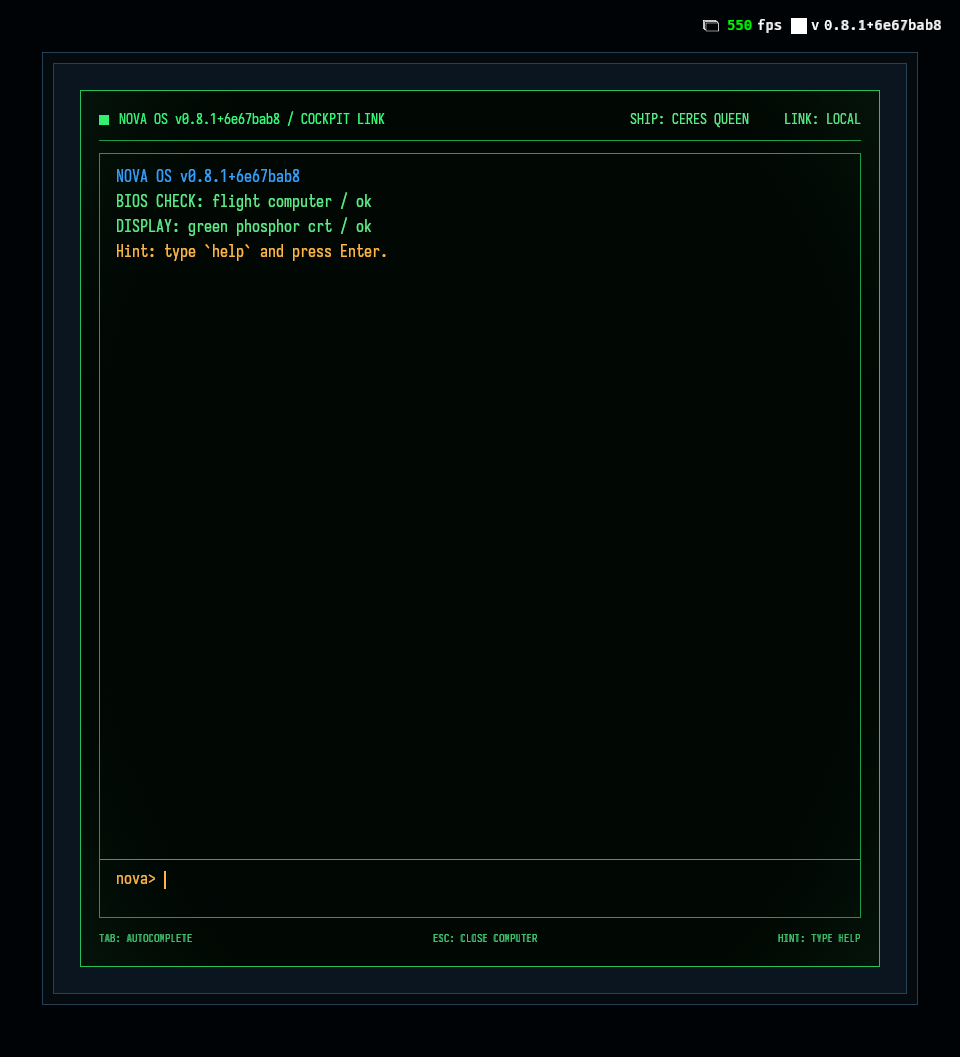
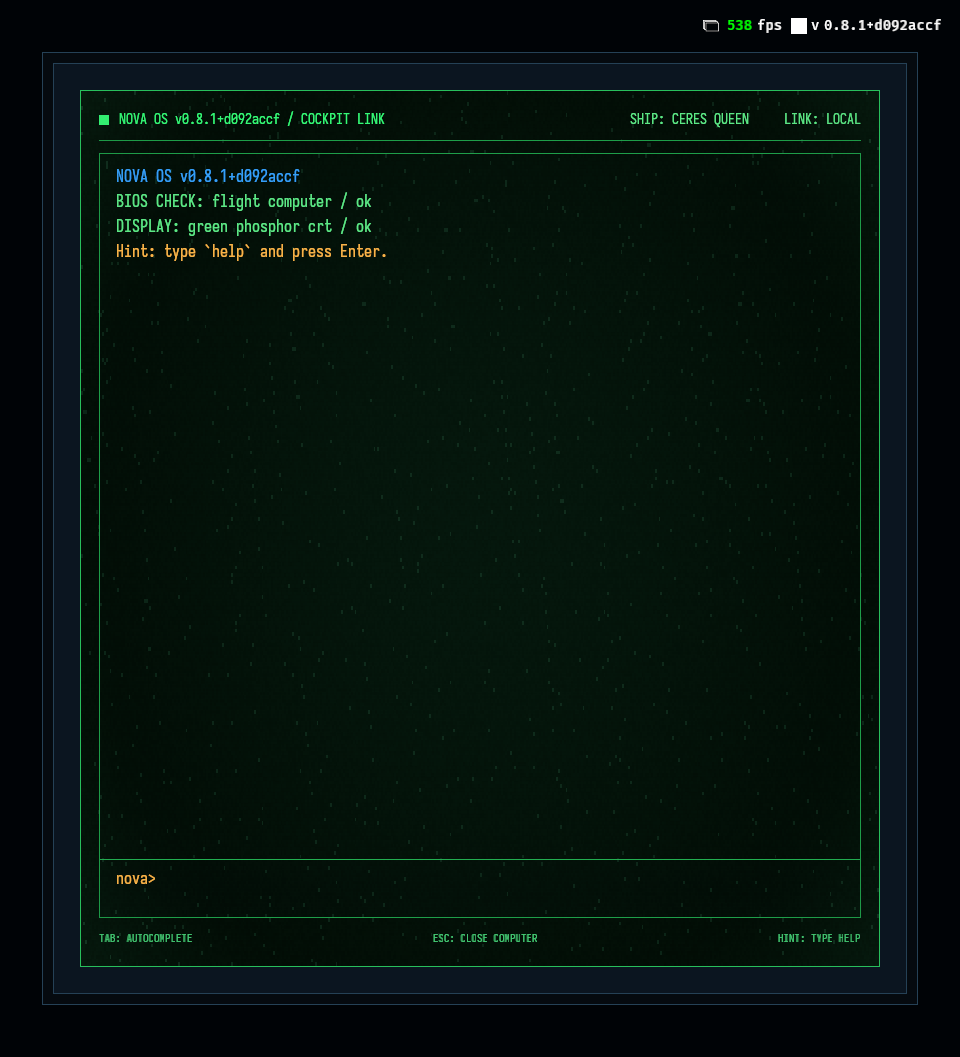
feat(hud): NOVA OS CRT volume gradient, caret blink, HTML log/objectives
Follow-up feedback on the NOVA OS computer (task 20260726-180807):

- CRT shader gets a low centre-peaked glow (0.05) for a curved-glass volume
  gradient and stronger grain (0.03) with a brighter spark cell, so the screen
  reads as a lively bulged CRT instead of a flat panel.
- Stronger zero-offset text bloom (0.6) so letters read as neon phosphor.
- Blinking caret: blink_nova_os_caret toggles the amber caret on real time
  while the computer is open.
- log/objectives output match the HTML: numbered '0001 ...' log rows and
  'OBJ + <message>' objective rows, both header-less, keeping real data.

Changed region(s): [[0.9062, 0.0, 0.9688, 0.0312], [0.25, 0.1561, 0.3125, 0.1873], [0.2188, 0.0937, 0.2812, 0.1249]]

diff --git a/crates/nova_gameplay/src/hud/drawer.rs b/crates/nova_gameplay/src/hud/drawer.rs
@@ -95,15 +95,20 @@ const NOVA_OS_ORANGE: Color = Color::srgb_u8(255, 123, 45);
 const NOVA_OS_CONTENT_Z: i32 = 0;
 const NOVA_OS_OVERLAY_Z: i32 = 1;
 const NOVA_OS_PROMPT_PREFIX: &str = "nova> ";
+/// Blink rate of the terminal caret, in full on/off cycles per second.
+const NOVA_OS_CARET_BLINK_HZ: f32 = 1.25;
 
 /// Straight-alpha CRT overlay tint + scanline controls, passed to WGSL. Kept
 /// deliberately faint so the overlay never films the text underneath: the tint
-/// is a whisper of green, the vignette darkens only the outer edges, and there
-/// is no centre glow (see `assets/shaders/nova_os_crt.wgsl`).
+/// is a whisper of green, the vignette darkens only the outer edges, and the
+/// centre glow is a low bulge that reads as volume rather than a wash (see
+/// `assets/shaders/nova_os_crt.wgsl`).
 const NOVA_OS_CRT_TINT: LinearRgba = LinearRgba::new(0.212, 1.0, 0.475, 0.03);
 const NOVA_OS_CRT_SCANLINE_STRENGTH: f32 = 0.06;
 const NOVA_OS_CRT_VIGNETTE_STRENGTH: f32 = 0.55;
-const NOVA_OS_CRT_GRAIN_STRENGTH: f32 = 0.01;
+/// Soft centre-peaked phosphor bulge that gives the flat panel its CRT volume.
+const NOVA_OS_CRT_GLOW_STRENGTH: f32 = 0.05;
+const NOVA_OS_CRT_GRAIN_STRENGTH: f32 = 0.03;
 
 /// Global stacking-context z for the OPEN drawer: it is a modal, so backdrop and
 /// panel rise above the flight HUD chrome (which carries no `GlobalZIndex` = 0).
@@ -404,6 +409,7 @@ struct NovaOsCrtUniform {
     tint: LinearRgba,
     scanline_strength: f32,
     vignette_strength: f32,
+    glow_strength: f32,
     grain_strength: f32,
 }
 
@@ -438,6 +444,7 @@ impl Default for NovaOsCrtMaterial {
                 tint: NOVA_OS_CRT_TINT,
                 scanline_strength: NOVA_OS_CRT_SCANLINE_STRENGTH,
                 vignette_strength: NOVA_OS_CRT_VIGNETTE_STRENGTH,
+                glow_strength: NOVA_OS_CRT_GLOW_STRENGTH,
                 grain_strength: NOVA_OS_CRT_GRAIN_STRENGTH,
             },
         }
@@ -868,19 +875,20 @@ fn terminal_log_rows(log: &DrawerFlightLog) -> Vec<TerminalRow> {
             text: "Flight log is empty.".to_string(),
         }];
     }
-    std::iter::once(TerminalRow {
-        kind: TerminalRowKind::Info,
-        text: "Flight log:".to_string(),
-    })
-    .chain(log.entries.iter().map(|entry| TerminalRow {
-        kind: match entry.kind {
-            DrawerFlightLogEntryKind::Comms => TerminalRowKind::Output,
-            DrawerFlightLogEntryKind::ObjectivePosted => TerminalRowKind::Warn,
-            DrawerFlightLogEntryKind::ObjectiveCompleted => TerminalRowKind::Info,
-        },
-        text: drawer_flight_log_text(entry),
-    }))
-    .collect()
+    // HTML-style log: each entry gets a 4-digit sequential index prefix
+    // (`0001 COMMS ... > ...`, `0003 OBJ + ...`) with no separate header.
+    log.entries
+        .iter()
+        .enumerate()
+        .map(|(index, entry)| TerminalRow {
+            kind: match entry.kind {
+                DrawerFlightLogEntryKind::Comms => TerminalRowKind::Output,
+                DrawerFlightLogEntryKind::ObjectivePosted => TerminalRowKind::Warn,
+                DrawerFlightLogEntryKind::ObjectiveCompleted => TerminalRowKind::Info,
+            },
+            text: format!("{:04} {}", index + 1, drawer_flight_log_text(entry)),
+        })
+        .collect()
 }
 
 fn terminal_objective_rows(objectives: &GameObjectives) -> Vec<TerminalRow> {
@@ -890,21 +898,15 @@ fn terminal_objective_rows(objectives: &GameObjectives) -> Vec<TerminalRow> {
             text: "No active objectives.".to_string(),
         }];
     }
-    std::iter::once(TerminalRow {
-        kind: TerminalRowKind::Info,
-        text: "Active objectives:".to_string(),
-    })
-    .chain(
-        objectives
-            .objectives
-            .iter()
-            .enumerate()
-            .map(|(index, objective)| TerminalRow {
-                kind: TerminalRowKind::Warn,
-                text: format!("{}. {} ({})", index + 1, objective.message, objective.id),
-            }),
-    )
-    .collect()
+    // HTML-style objectives: one `OBJ + <message>` row each, no header.
+    objectives
+        .objectives
+        .iter()
+        .map(|objective| TerminalRow {
+            kind: TerminalRowKind::Warn,
+            text: format!("OBJ + {}", objective.message),
+        })
+        .collect()
 }
 
 #[derive(Debug, Clone)]
@@ -1145,6 +1147,13 @@ impl Plugin for NovaDrawerPlugin {
                     .run_if(resource_changed::<NovaOsTerminal>.or_else(terminal_ui_just_spawned)),
             )
                 .chain()
+                .in_set(NovaHudSystems),
+        );
+        // Blink the caret on real time (virtual time is paused while open).
+        app.add_systems(
+            Update,
+            blink_nova_os_caret
+                .run_if(in_state(PauseStates::Drawer))
                 .in_set(NovaHudSystems),
         );
 
@@ -1446,6 +1455,20 @@ fn rebuild_terminal_ui(
     }
 }
 
+/// Blink the terminal caret with a steady on/off cadence, driven by real time
+/// so it keeps blinking while the sim is frozen. The caret is a small amber
+/// block node, so the blink just toggles its background alpha.
+fn blink_nova_os_caret(
+    time: Res<Time<Real>>,
+    mut q_caret: Query<&mut BackgroundColor, With<NovaOsTerminalCaretMarker>>,
+) {
+    let on = (time.elapsed_secs() * NOVA_OS_CARET_BLINK_HZ).fract() < 0.5;
+    let color = NOVA_OS_AMBER.with_alpha(if on { 1.0 } else { 0.0 });
+    for mut background in &mut q_caret {
+        background.0 = color;
+    }
+}
+
 fn spawn_terminal_row(parent: &mut ChildSpawnerCommands, row: &TerminalRow, font: Handle<Font>) {
     let color = match row.kind {
         TerminalRowKind::Input => NOVA_OS_AMBER,
@@ -1537,10 +1560,13 @@ fn nova_os_prompt_text_layout() -> TextLayout {
     }
 }
 
+/// A zero-offset phosphor bloom behind each glyph. The alpha is pushed fairly
+/// high so the antialiased glyph edges pick up extra colour and the text reads
+/// as glowing neon phosphor rather than flat paint.
 fn nova_os_text_bloom(color: Color) -> TextShadow {
     TextShadow {
         offset: Vec2::ZERO,
-        color: color.with_alpha(0.30),
+        color: color.with_alpha(0.6),
     }
 }
 
@@ -2891,10 +2917,11 @@ mod tests {
             .iter()
             .map(|row| row.text.as_str())
             .collect();
-        assert!(printed.contains(&"Flight log:"));
-        assert!(printed.contains(&"COMMS CONTROL > Hold course."));
-        assert!(printed.contains(&"OBJ + Burn for Beacon 1"));
-        assert!(printed.contains(&"OBJ x Burn for Beacon 1"));
+        // HTML-style numbered rows, no header.
+        assert!(!printed.iter().any(|row| *row == "Flight log:"));
+        assert!(printed.contains(&"0001 COMMS CONTROL > Hold course."));
+        assert!(printed.contains(&"0002 OBJ + Burn for Beacon 1"));
+        assert!(printed.contains(&"0003 OBJ x Burn for Beacon 1"));
     }
 
     #[test]
@@ -2917,9 +2944,10 @@ mod tests {
             .iter()
             .map(|row| row.text.as_str())
             .collect();
-        assert!(printed.contains(&"Active objectives:"));
-        assert!(printed.contains(&"1. Recover the beacon (beacon)"));
-        assert!(printed.contains(&"2. Dock at the relay (dock)"));
+        // HTML-style `OBJ + <message>` rows, no header.
+        assert!(!printed.iter().any(|row| *row == "Active objectives:"));
+        assert!(printed.contains(&"OBJ + Recover the beacon"));
+        assert!(printed.contains(&"OBJ + Dock at the relay"));
 
         let empty_snapshot = terminal_snapshot_from_world(
             &DrawerFlightLog::default(),
@@ -2948,7 +2976,7 @@ mod tests {
         assert!(
             terminal_scrollback_texts(&app)
                 .iter()
-                .any(|row| row == "1. Recover the beacon (beacon)"),
+                .any(|row| row == "OBJ + Recover the beacon"),
             "first command submit reads the current objective resource"
         );
 
@@ -2957,9 +2985,7 @@ mod tests {
 
         let printed = terminal_scrollback_texts(&app);
         assert!(
-            printed
-                .iter()
-                .any(|row| row == "1. Dock at the relay (dock)"),
+            printed.iter().any(|row| row == "OBJ + Dock at the relay"),
             "second command submit reads the changed objective resource"
         );
     }
@@ -3180,7 +3206,7 @@ mod tests {
             "typed input must not collapse inside the prompt row"
         );
         assert!(
-            prompt_bloom.offset == Vec2::ZERO && prompt_bloom.color.alpha() <= 0.31,
+            prompt_bloom.offset == Vec2::ZERO && prompt_bloom.color.alpha() <= 0.61,
             "terminal prompt bloom must stay faint and non-directional"
         );
 
@@ -3200,7 +3226,7 @@ mod tests {
             "autocomplete ghost stays inline after the visible prompt text"
         );
         assert!(
-            ghost_bloom.offset == Vec2::ZERO && ghost_bloom.color.alpha() <= 0.31,
+            ghost_bloom.offset == Vec2::ZERO && ghost_bloom.color.alpha() <= 0.61,
             "autocomplete ghost bloom must stay faint and non-directional"
         );
 
@@ -3212,7 +3238,7 @@ mod tests {
         assert_eq!(prefix.0, "nova>");
         assert_eq!(prefix_color.0, NOVA_OS_AMBER);
         assert!(
-            prefix_bloom.offset == Vec2::ZERO && prefix_bloom.color.alpha() <= 0.31,
+            prefix_bloom.offset == Vec2::ZERO && prefix_bloom.color.alpha() <= 0.61,
             "prompt prefix bloom must stay faint and non-directional"
         );
 

diff --git a/tasks/20260726-180807/NOTES.md b/tasks/20260726-180807/NOTES.md
@@ -111,6 +111,26 @@ rows use the HTML blue `#36a3ff`.
   that the dark box still reads as raised, and it keeps the HTML-faithful
   "overlays above content" ordering.
 
+## Feedback round (post-land, on master)
+
+User feedback after the first land, addressed directly on master in the same task:
+
+- Screen volume gradient + grain: the shader's centre glow (removed in the first
+  pass because the old 0.13 value washed the text) is back as a LOW `glow_strength`
+  0.05 bulge peaking at centre and fading by the edges, so the flat panel reads as
+  curved CRT glass; grain bumped 0.01 -> 0.03 with a brighter spark cell so the
+  screen texture looks alive. Verified on a fresh capture (`shots/nova-os-*.png`):
+  clear centre-to-edge gradient, visible grain, text still crisp.
+- More letter bloom: `nova_os_text_bloom` alpha 0.30 -> 0.6 (zero-offset), so glyph
+  edges pick up extra phosphor and read as neon glow.
+- Blinking caret: new `blink_nova_os_caret` system toggles the amber caret block's
+  background alpha on real time (`NOVA_OS_CARET_BLINK_HZ` 1.25 cycles/s), gated on
+  `PauseStates::Drawer`. Real time because virtual time is paused while open.
+- `log` / `objectives` output now match the HTML: `log` drops its header and
+  prefixes each row with a 4-digit sequential index (`0001 COMMS ... > ...`,
+  `0003 OBJ + ...`); `objectives` drops its header and prints `OBJ + <message>`
+  rows. Real data is kept; only the framing changed. Tests updated accordingly.
+
 ## Self-reflection
 
 The durable lesson from `142635`'s RETRO held: build the capture harness FIRST,
